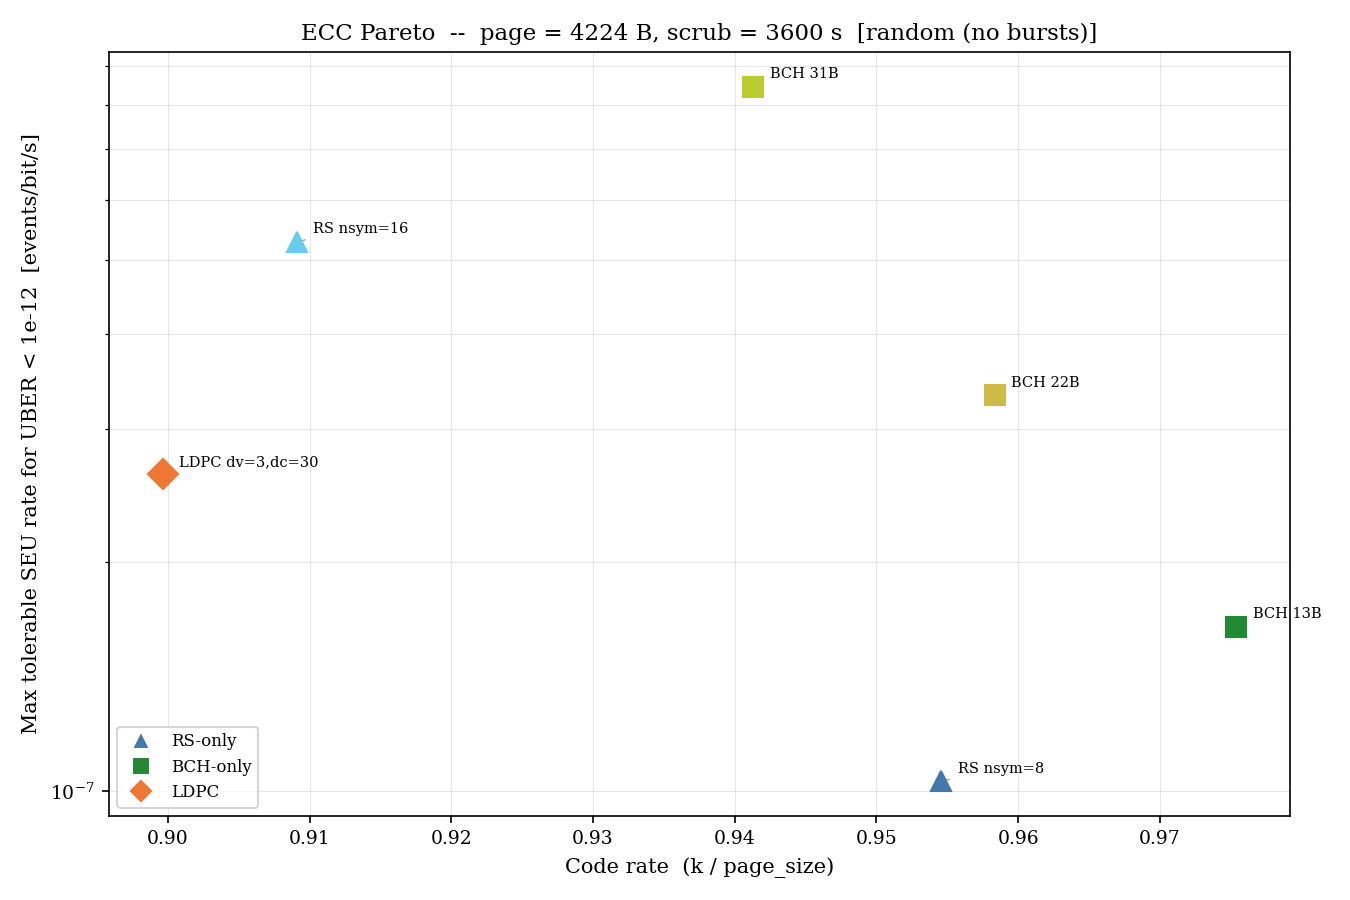
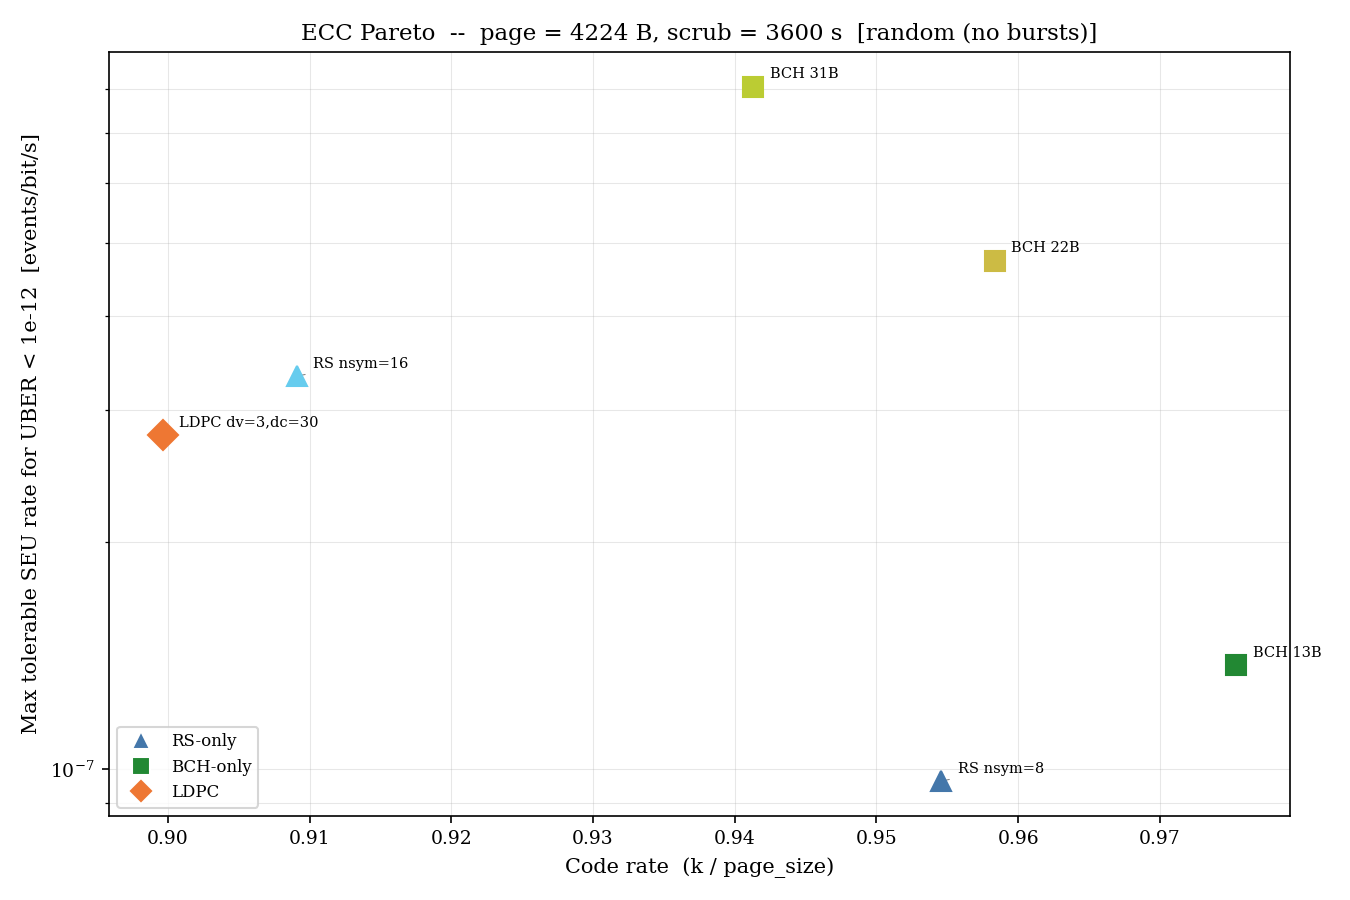
1 bit workaround

diff --git a/compare_ecc_burst_pagesizes.py b/compare_ecc_burst_pagesizes.py
@@ -40,7 +40,7 @@ import argparse
 import os
 import sys
 import multiprocessing
-from math import ceil
+from math import ceil, exp
 
 import numpy as np
 import matplotlib.pyplot as plt
@@ -53,7 +53,7 @@ from utils import (
     encode_with_rs, decode_with_rs,
     encode_with_bch, decode_with_bch,
 )
-from monte_carlo import inject_errors_leo, _POPCOUNT8
+from monte_carlo import inject_errors_leo, inject_errors_leo_conditional, _POPCOUNT8
 
 # ===========================================================
 #  OUTPUT DIRECTORY
@@ -68,7 +68,7 @@ PAGE_SIZES     = [4224, 8640]   # NAND page sizes to evaluate [bytes]
 NUM_SECTORS    = 8              # equal-sized sectors per page
 
 # SEU rate sweep -- same x-axis as compare_ecc_pagesizes
-SEU_RATE_SWEEP = np.logspace(-7, -6, 60)
+SEU_RATE_SWEEP = np.logspace(-8, -5, 40)
 
 # Scrubbing
 SCRUB_INTERVAL = 3600           # seconds between scrub events
@@ -77,7 +77,7 @@ SCRUB_INTERVAL = 3600           # seconds between scrub events
 UBER_REQ       = 1e-12
 
 # Monte Carlo settings
-NUM_ITERS      = 100             # iterations per (architecture x SEU-rate point)
+NUM_ITERS      = 10            # iterations per (architecture x SEU-rate point)
 # Cap at 61: Python 3.13 on Windows enforces a strict 61-worker handle limit.
 _CPU_COUNT  = os.cpu_count() or 1
 NUM_WORKERS = min(_CPU_COUNT, 61)
@@ -388,6 +388,46 @@ def _inject_burst(flat_page, seu_rate, scrub_interval, rng):
     return corrupted
 
 
+def _inject_random_conditional(flat_page, seu_rate, scrub_interval, rng):
+    """Conditional (importance-sampling) variant of _inject_random.
+
+    Forces at least one radiation event via zero-truncated Poisson sampling.
+    The caller must scale the resulting UBER by
+    ``p_flip = 1 - exp(-lambda)`` to recover the unconditional UBER.
+    """
+    out = flat_page.copy()
+    n_bytes = len(out)
+    total_bits = n_bytes * 8
+
+    if seu_rate < 1e-30 or total_bits == 0:
+        out[0] ^= np.uint8(1)
+        return out
+
+    lam_events = seu_rate * total_bits * scrub_interval
+    # Zero-truncated Poisson: resample until n_events >= 1
+    n_events = 0
+    while n_events == 0:
+        n_events = int(rng.poisson(lam_events))
+
+    n_flip = min(n_events, total_bits)
+    positions = rng.choice(total_bits, size=n_flip, replace=False)
+    for pos in positions:
+        out[pos >> 3] ^= np.uint8(1 << (pos & 7))
+    return out
+
+
+def _inject_burst_conditional(flat_page, seu_rate, scrub_interval, rng):
+    """Conditional (importance-sampling) variant of _inject_burst.
+
+    Forces at least one radiation event via zero-truncated Poisson sampling
+    and applies the full LEO burst model.  The caller must scale the resulting
+    UBER by ``p_flip = 1 - exp(-lambda)`` to recover the unconditional UBER.
+    """
+    corrupted, _ = inject_errors_leo_conditional(
+        flat_page, seu_rate, scrub_interval, rng)
+    return corrupted
+
+
 # ===========================================================
 #  WORKER  (top-level -> picklable on Windows / spawn)
 # ===========================================================
@@ -404,7 +444,13 @@ def _worker(task):
     Returns
     -------
     tuple
-        ``(arch_index, seu_rate, error_bits, total_bits)``
+        ``(arch_index, seu_rate, weighted_error_bits, total_data_bits)``
+
+        ``weighted_error_bits`` is a float equal to
+        ``p_flip * conditional_error_bits`` where
+        ``p_flip = 1 - exp(-\u03bb)`` is the probability that the page sees at
+        least one radiation event in the scrub window.  Dividing by
+        ``total_data_bits`` gives the true (unconditional) UBER.
     """
     try:
         (arch_index, arch_type, arch_params,
@@ -418,7 +464,19 @@ def _worker(task):
         error_bits = 0
         total_bits = 0
 
-        inject = _inject_burst if mode == "burst" else _inject_random
+        # ── Importance-sampling weight ─────────────────────────────────────
+        # P(at least one radiation event on the full encoded page during one
+        # scrub window).  Every simulated iteration is conditioned on having
+        # ≥1 event (zero-truncated Poisson), so the resulting UBER estimate
+        # must be multiplied by p_flip to recover the unconditional UBER:
+        #     UBER_true = p_flip × UBER_conditional
+        # This eliminates zero-event iterations and greatly improves resolution
+        # at low SEU rates where λ << 1 and most Poisson draws would be zero.
+        lam_page = seu_rate * (page_size * 8) * scrub_interval
+        p_flip = 1.0 - exp(-lam_page) if lam_page < 700.0 else 1.0
+
+        inject = (_inject_burst_conditional if mode == "burst"
+                  else _inject_random_conditional)
 
         # -- RS-only simulation path -------------------------
         if arch_type == "rs":
@@ -483,7 +541,8 @@ def _worker(task):
         else:
             return arch_index, seu_rate, 0, 1
 
-        return arch_index, seu_rate, error_bits, total_bits
+        # Scale by the importance weight: true UBER = p_flip × conditional UBER
+        return arch_index, seu_rate, p_flip * error_bits, total_bits
 
     except Exception as e:
         # Catch any unhandled exception to prevent worker process from crashing

diff --git a/monte_carlo.py b/monte_carlo.py
@@ -19,6 +19,7 @@ LEO Radiation Model Parameters
 
 from __future__ import annotations
 
+import math
 import os
 import sys
 import numpy as np
@@ -158,6 +159,95 @@ def inject_errors_leo(flat_page: np.ndarray,
         rec.total_bits_flipped += actual_size
 
     return out, rec
+
+
+def inject_errors_leo_conditional(
+        flat_page: np.ndarray,
+        seu_rate: float,
+        scrub_interval: float,
+        rng: np.random.Generator,
+        page_size_bits: int | None = None,
+) -> Tuple[np.ndarray, float]:
+    """Importance-sampling variant of inject_errors_leo.
+
+    Forces at least one radiation event by sampling from a zero-truncated
+    Poisson distribution (rejection sampling: draw until N >= 1), then
+    applies the LEO burst model exactly as in ``inject_errors_leo``.
+
+    The caller is responsible for weighting the resulting UBER estimate by
+    the returned probability ``p_flip = P(≥1 event) = 1 - exp(-λ)`` so that
+    the unconditional UBER is recovered::
+
+        UBER_true = p_flip * mean(UBER | ≥1 event)
+
+    This avoids wasting iterations on zero-event pages, giving much higher
+    resolution at low SEU rates where most Poisson draws would be zero.
+
+    Args:
+        flat_page      : 1-D uint8 array (encoded page).
+        seu_rate       : radiation event rate [events / bit / s].
+        scrub_interval : seconds between scrub events.
+        rng            : numpy random Generator.
+        page_size_bits : override total bit count (default: len * 8).
+
+    Returns:
+        ``(corrupted_page, p_flip)`` — page with ≥1 event applied and the
+        importance weight P(at least one event).
+    """
+    n_bytes = len(flat_page)
+    total_bits = page_size_bits if page_size_bits is not None else n_bytes * 8
+    lam_events = seu_rate * total_bits * scrub_interval
+
+    # P(at least one radiation event) — the importance weight
+    p_flip = 1.0 - math.exp(-lam_events) if lam_events < 700.0 else 1.0
+
+    if lam_events < 1e-300 or total_bits == 0:
+        # Essentially zero probability: flip one bit as a degenerate sample.
+        # The caller's p_flip weight will suppress this to near zero.
+        out = flat_page.copy()
+        out[0] ^= np.uint8(1)
+        return out, p_flip
+
+    # Zero-truncated Poisson: resample until n_events >= 1 (fast for λ > 0.01;
+    # expected number of rejection steps = exp(λ) / (exp(λ) - 1) ≤ 1/(1-e^-λ))
+    n_events = 0
+    while n_events == 0:
+        n_events = int(rng.poisson(lam_events))
+
+    # Identical partitioning / injection logic as inject_errors_leo
+    out = flat_page.copy()
+    rec = InjectionRecord()
+
+    n_bursts  = int(rng.binomial(n_events, 1.0 / 11.0))
+    n_singles = n_events - n_bursts
+    rec.n_single_seus   = n_singles
+    rec.n_burst_events  = n_bursts
+
+    if n_singles > 0:
+        n_flip = min(n_singles, total_bits)
+        positions = rng.choice(total_bits, size=n_flip, replace=False)
+        for pos in positions:
+            byte_idx = pos >> 3
+            bit_idx  = pos & 7
+            if byte_idx < n_bytes:
+                out[byte_idx] ^= np.uint8(1 << bit_idx)
+        rec.total_bits_flipped += n_flip
+
+    for _ in range(n_bursts):
+        burst_size = sample_burst_size(rng)
+        if burst_size <= 0:
+            continue
+        start_bit   = int(rng.integers(0, total_bits))
+        actual_size = min(burst_size, total_bits - start_bit)
+        for i in range(actual_size):
+            bit_pos  = start_bit + i
+            byte_idx = bit_pos >> 3
+            bit_idx  = bit_pos & 7
+            if byte_idx < n_bytes:
+                out[byte_idx] ^= np.uint8(1 << bit_idx)
+        rec.total_bits_flipped += actual_size
+
+    return out, p_flip
 
 
 # ══════════════════════════════════════════════════════════
